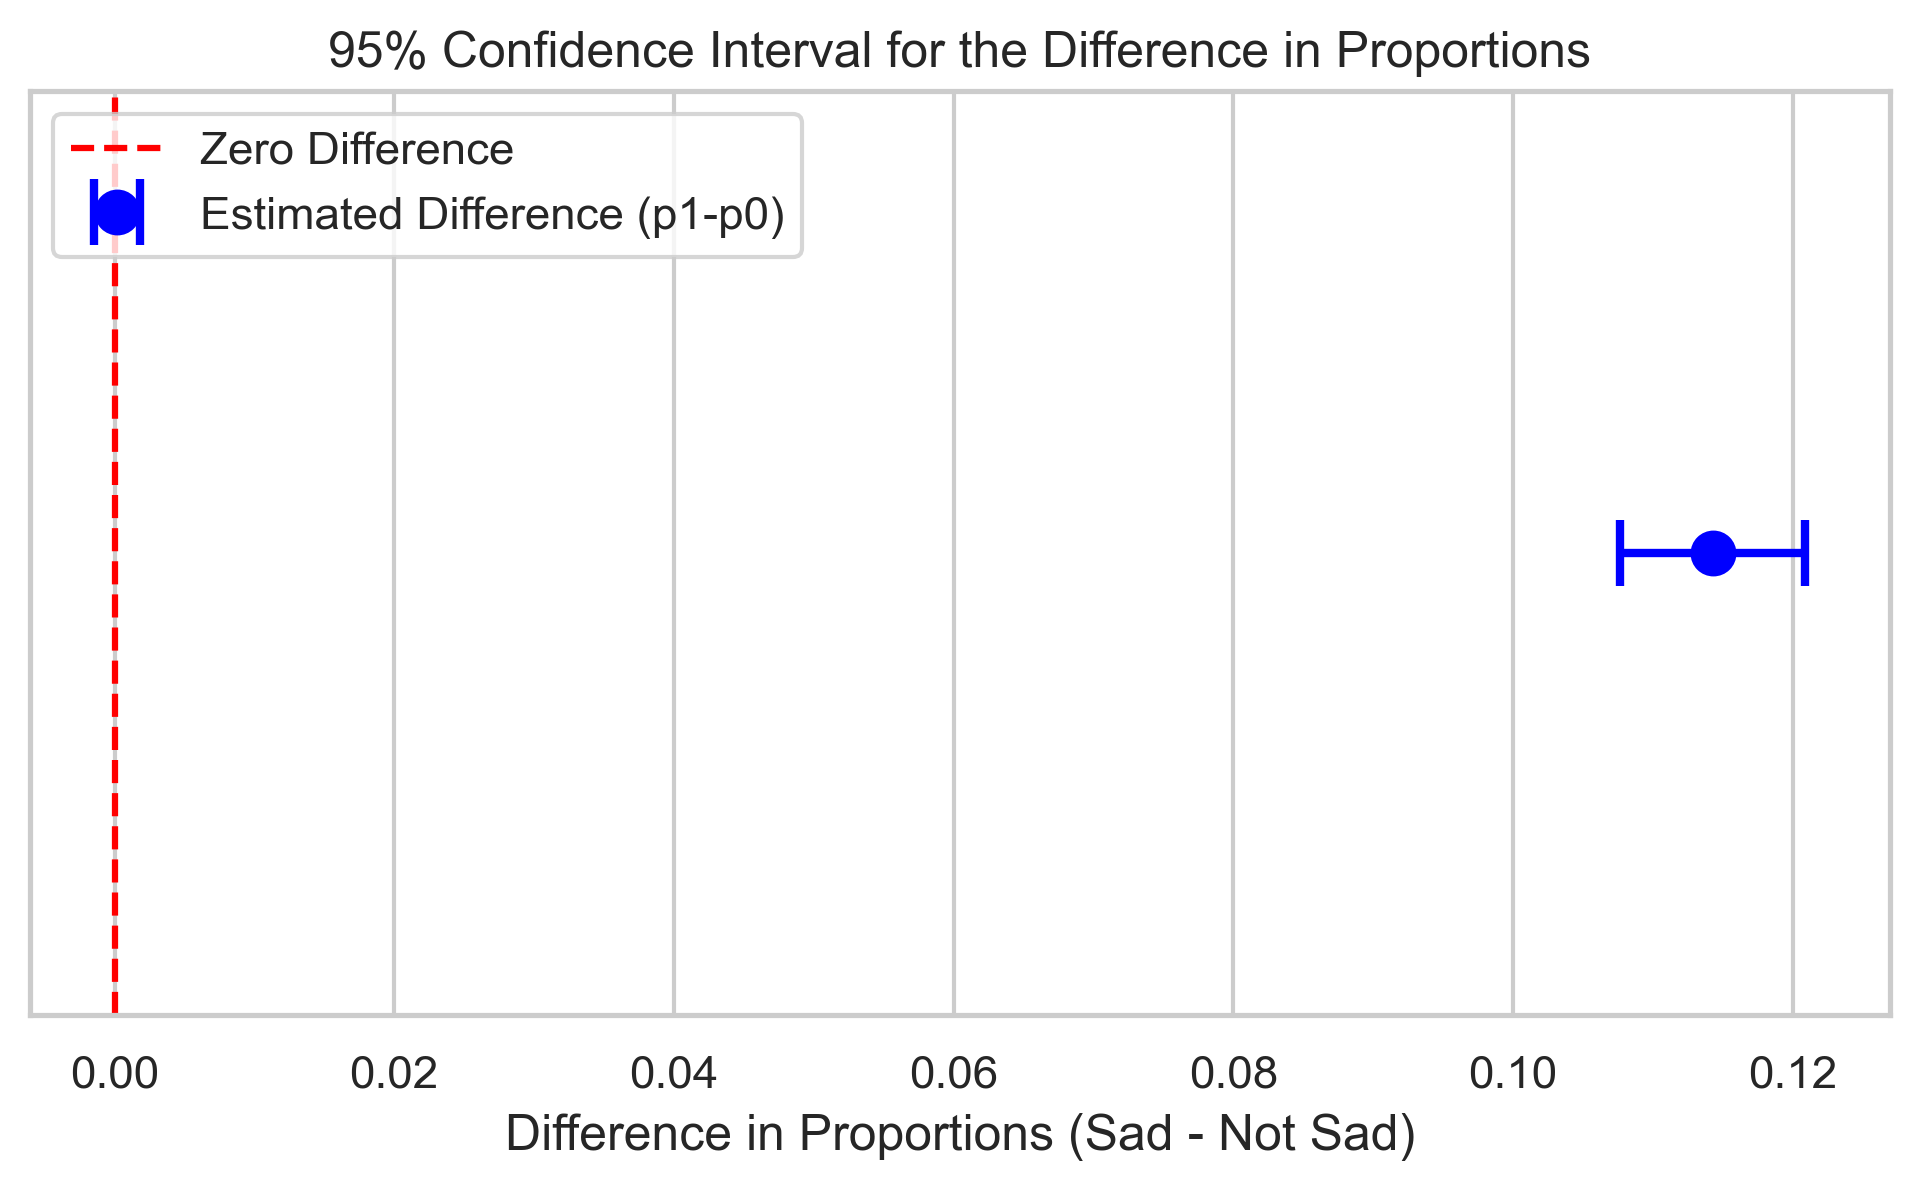
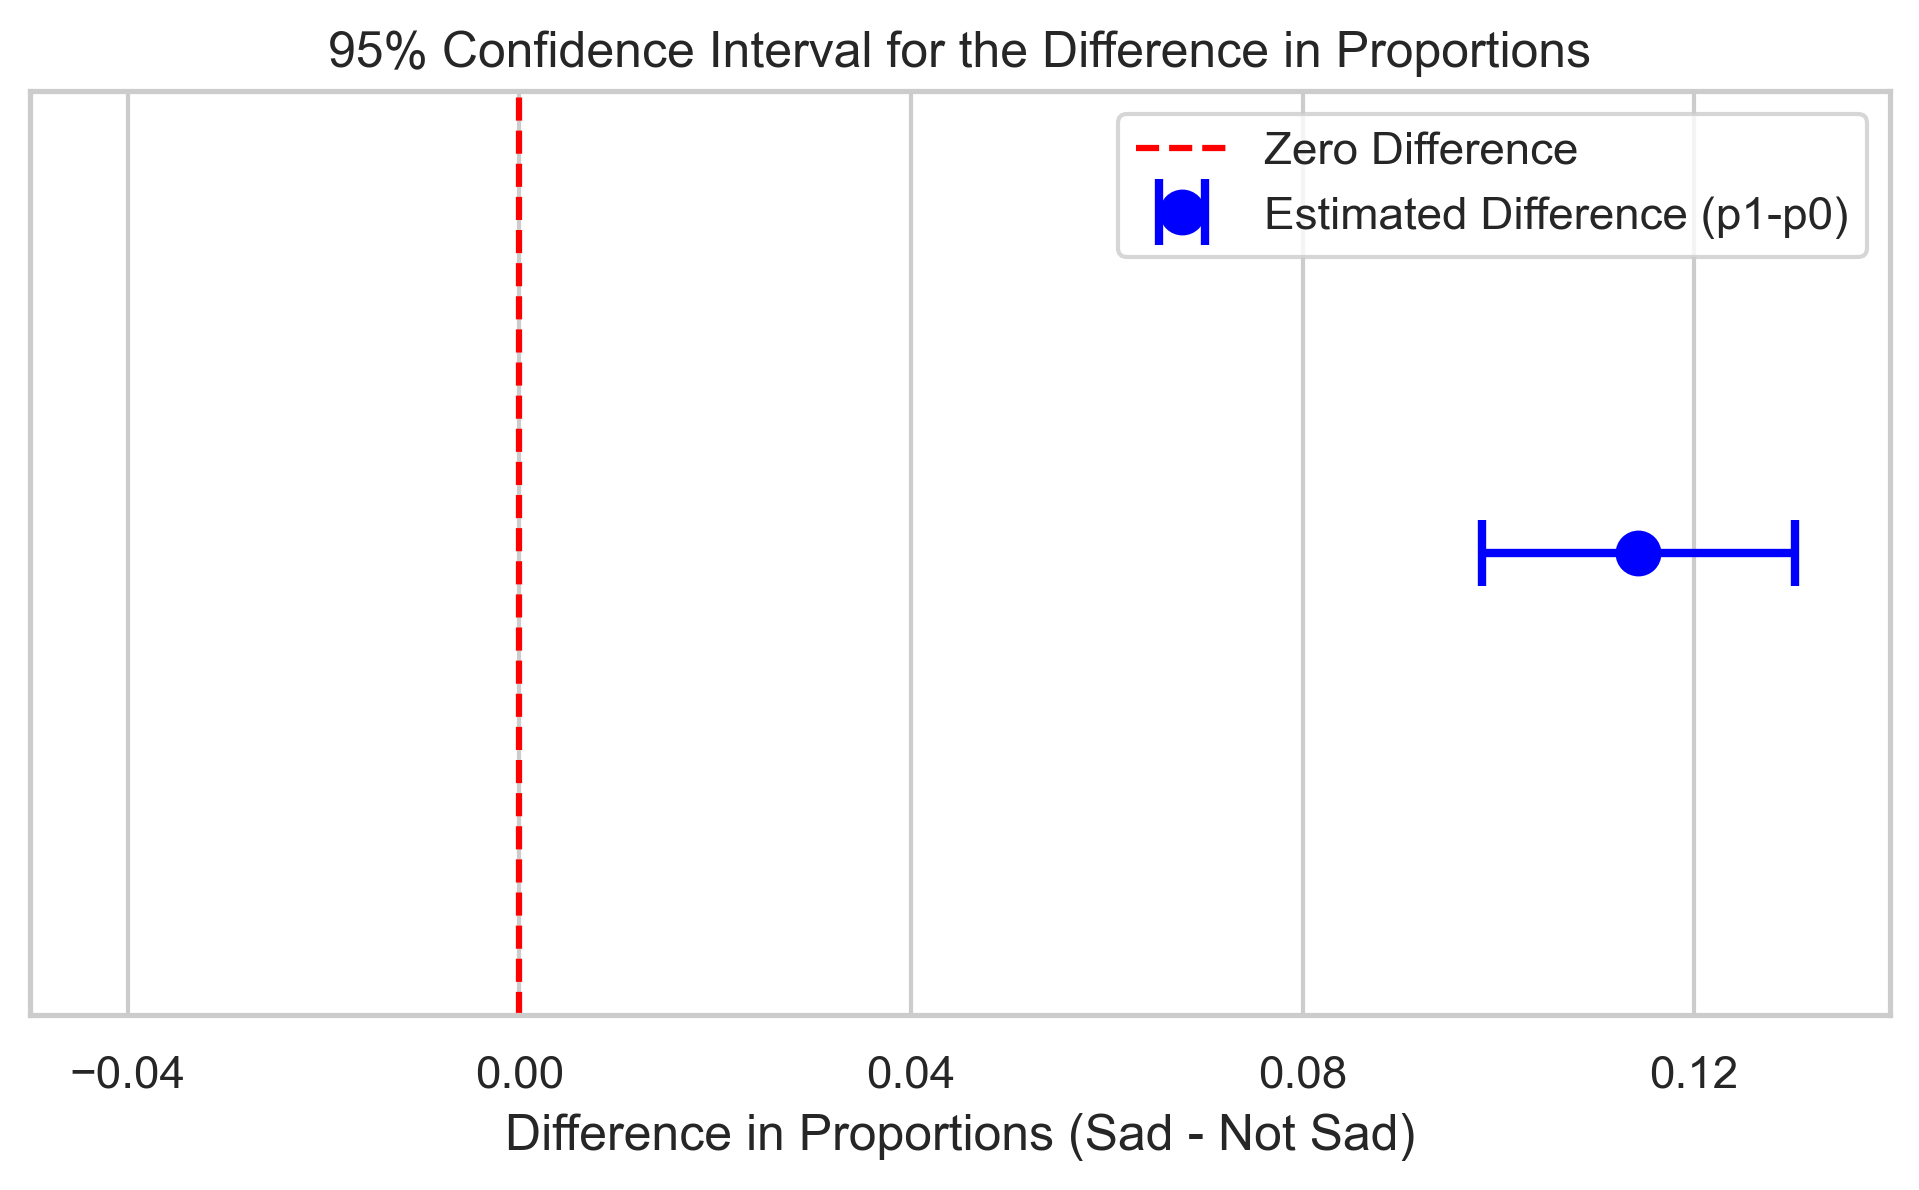
Add files via upload

diff --git a/README.md b/README.md
@@ -1,23 +1,51 @@
-# Project Cycle 2
+# README.md
 
-## Group Information
-- Group number: 13
-- Member names: 112370206 黃立帆、111370235 林家昕、113370231 王薪葳
+## 👥 Group Information
+* **Group Number:** Group 11
+* **Members & Contribution:**
+  * **林家昕** | ID: 111370235  
+    * *Contribution: 85%*
+    * *Responsibilities:* **Full Project Execution & Presentation Part I.** Responsible for the entire analytical pipeline, including data cleaning, recoding, exploratory data analysis (EDA), generating all core statistical plots, performing the Two-Proportion Z-Test, and phrasing the final academic conclusion. Solely responsible for writing the technical documentation (`README.md`), structuring and designing the entire layout of the one-page summary poster, and delivering the **background, data setup, and methodology sections** of the video presentation.
+  * **吳宗祐** | ID: 113370214  
+    * *Contribution: 15%*
+    * *Responsibilities:* **Presentation Part II.** Assisted in basic layout refinement of the one-page summary poster and responsible for delivering the **exploratory data analysis (all 3 plots and interpretations), statistical inference results, and the short final conclusion sections** of the video presentation.
 
-## Dataset
-- Dataset used: `YRBS_2007.csv`
+---
 
-## Selected Variables
-- Proportion analysis: `CurrentCigaretteUse`
-- Mean analysis: `HowTallAreYouWithoutShoesInMeters`
+## ❓ Selected Research Question
+Is the proportion of current cigarette use different between students who felt sad or hopeless and those who did not?
 
-## Benchmark Values
-- For `CurrentCigaretteUse`: p0 = 0.20
-- For `HowTallAreYouWithoutShoesInMeters`: μ0 = 1.70
+---
 
-## Research Questions
-1. Is the proportion of students who currently smoke different from 0.20?
-2. Is the mean height of students different from 1.70 meters?
+## 🔢 Group Variable and Response Variable
+* **Group Variable (Exposed vs. Comparison):**
+  * Original Variable: `SadOrHopeless` (Binary)
+  * Recoding Schema: $1.0 = \text{Exposed: Code 1 (Yes)}$, $2.0 \rightarrow 0 = \text{Comparison: Code 2 (No)}$
+* **Response Variable (Success vs. Failure):**
+  * Original Variable: `CurrentCigaretteUse` (Binary)
+  * Recoding Schema: $1.0 \rightarrow 0 = \text{Failure (Non-Smoker)}$, $\text{Codes 2-7} \rightarrow 1 = \text{Success (Smoker)}$
 
-## Short Final Conclusion
-- (請完成分析後填寫)
+---
+
+## 🧪 Method Used
+* **Statistical Method:** Two-Proportion Z-Test ($\alpha = 0.05$)
+* **Hypotheses:**
+  * Null Hypothesis ($H_0$): $p_1 - p_0 = 0$
+  * Alternative Hypothesis ($H_a$): $p_1 - p_0 \neq 0$
+* **Dataset:** 2007 Youth Risk Behavior Surveillance System (YRBSS) with a valid sample size of $N = 13,174$.
+* **Key Statistical Outputs:**
+  * $z\text{-statistic} = 15.05$
+  * $p\text{-value} = 3.267\text{e-}51$
+  * $95\% \text{ Confidence Interval (CI)} = [10.76\%, 12.09\%]$
+
+---
+
+## 📝 Short Final Conclusion
+The analysis demonstrates that adolescent students experiencing sadness or hopelessness exhibit an 11.43% higher smoking prevalence compared to those without such emotional distress. This confirms a strong statistically significant association, suggesting that negative emotional health may be a critical risk factor for adolescent cigarette use.
+---
+
+## 🎥 Video Presentation & Project Repository
+Our recorded video presentation, which covers the data visualization, statistical analysis, and final conclusions, as well as our complete code repository, can be accessed via the links below:
+
+* **Watch the Video Presentation:** []
+* **View the Source Code on GitHub:** []